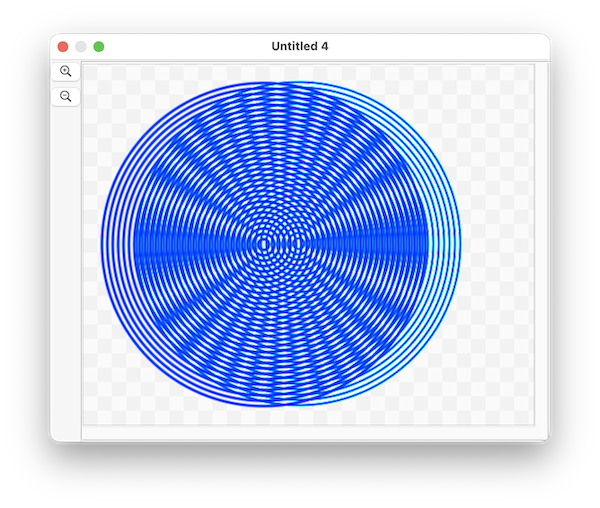
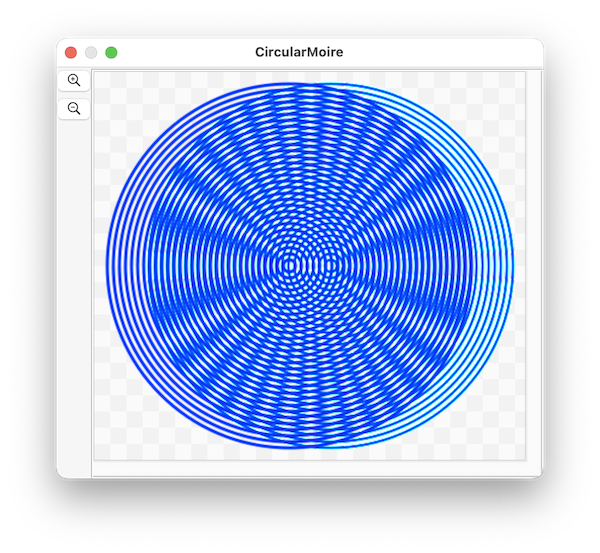
Subrects edits

diff --git a/docs/Subrects.md b/docs/Subrects.md
@@ -21,22 +21,24 @@ copying the PNG data can be useful for initializing a layer, as in this example,
 
 ![image](../images/CircularMoire.png "moire pattern of offset circles") 
  
-First, the script makes 30 concentric circles, slightly offset to the left of the image.  Then the PNG data for a 400 by 400 region is copied, and used as the image data when creating a new layer, which is placed to overlay exactly its original. Then the layer slides over pixel by pixel, creating a interesting interference pattern as it moves.
+First, the script makes 30 concentric circles, slightly offset to the left of the image.  Then the PNG data for a 380 by 380 region is copied, and used as the image data when creating a new layer, which is placed to overlay almost exactly its original. Then the layer slides over pixel by pixel, creating a interesting interference pattern as it moves.
 
 Here's the whole script:
  
 ```
 tell application "SinterPixels"
-	set circleMoireDoc to make new document with properties {height:400, width:500}
+	set circleMoireDoc to make new document with properties {height:382, width:424}
 	tell circleMoireDoc
 		repeat with n from 1 to 30
-			make new circle with properties {position:{-50, 0}, radius:n * 6, fill color:clear, line width:3, color:blue}
+			make new circle with properties {position:{-20, 0}, radius:n * 6, fill color:clear, line width:3, color:blue}
 		end repeat
+		
 		delay 1
-		set myPng to get PNG data of subrect id {400, 0, 0, 400}
-		set layerA to make new layer with properties {image data:myPng, position:{-50, 0}}
-		repeat with n from 1 to 100
-			set x coordinate of layerA to n - 50
+		set myPng to get PNG data of subrect id {380, 0, 0, 380}
+		set layerA to make new layer with properties {image data:myPng, position:{-20, 0}}
+		
+		repeat with n from 1 to 40
+			set x coordinate of layerA to n - 20
 		end repeat
 	end tell
 end tell
